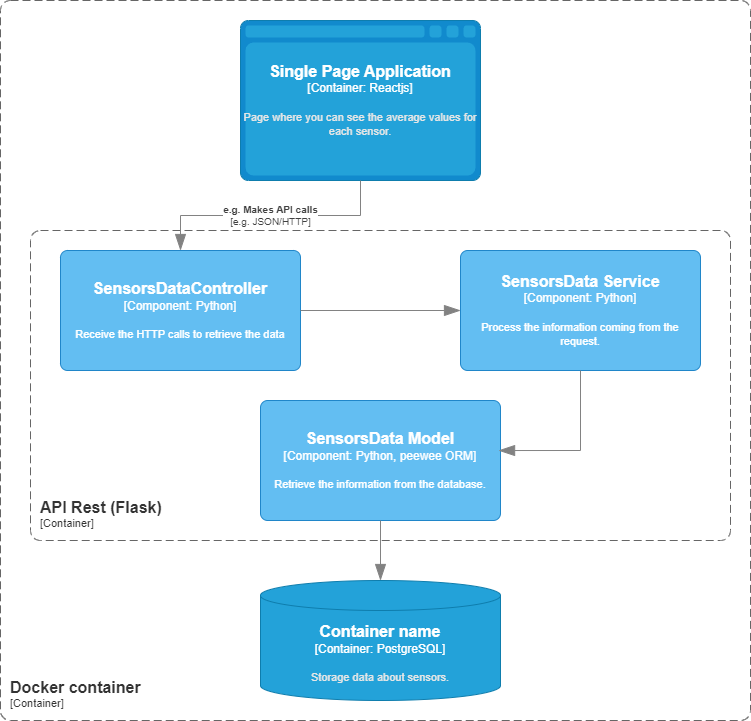
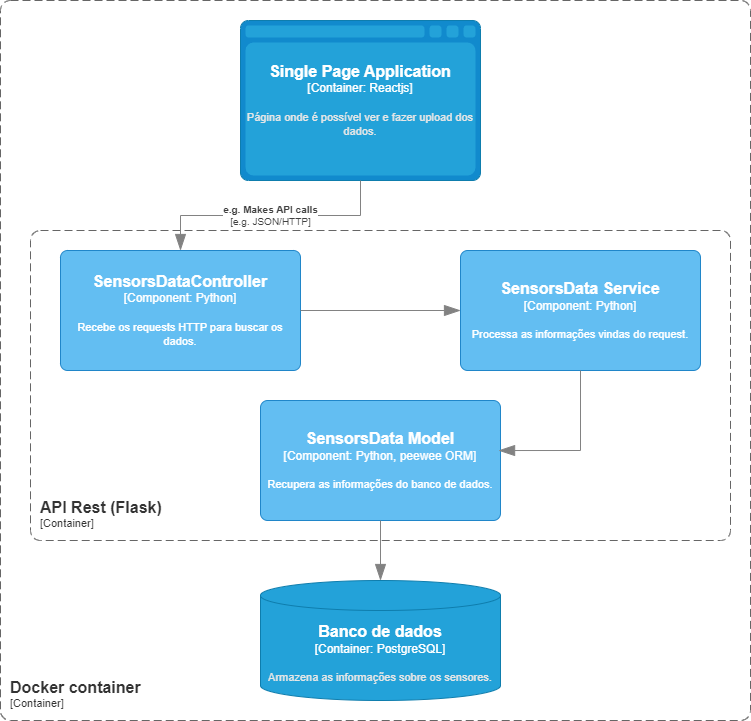
ajustes finais

diff --git a/frontend/src/App.js b/frontend/src/App.js
@@ -1,4 +1,3 @@
-import './App.css';
 import { Chart, registerables } from 'chart.js';
 import { useState } from 'react';
 import { BarChart } from './components/BarChart';
@@ -29,14 +28,9 @@ function App() {
   const [showSucessAlert, setShowSuccessAlert] = useState(false);
   const [showFailAlert, setShowFailAlert] = useState(false);
 
-  const setInfo = (data) => {
-    setShowSuccessAlert(true);
-    setSensorsData(transformData(data));
-  }
-
   const handleGetInfo = async (timeLimitValue, timeLimitText) => {
     setTimeLimit(timeLimitText);
-    getSensorsInfo(timeLimitValue, setInfo, () => setShowFailAlert(true));
+    getSensorsInfo(timeLimitValue, (data) => setSensorsData(transformData(data)), () => setShowFailAlert(true));
   };
 
   const handleAddInfo = async (equipmentId, timestamp, value) => {
@@ -75,11 +69,17 @@ function App() {
         id="home-tabs"
         defaultActiveKey={"get-data"}
         className='mb-3'
+        onSelect={() => {
+          setShowSuccessAlert(false);
+          setShowFailAlert(false);
+        }}
       >
         <Tab eventKey={"get-data"} title={"Média dos valores"}>
-
-          <SelectComponent getInfo={handleGetInfo}/>
-          <BarChart chartData={sensorsData} timeLimit={timeLimit}/>
+          <div>
+            <SelectComponent getInfo={handleGetInfo}/>
+            <BarChart chartData={sensorsData} timeLimit={timeLimit}/>
+          </div>
+          
 
         </Tab>
         <Tab eventKey={"upload-data"} title={"Entre com os dados"}>
@@ -99,7 +99,9 @@ function App() {
         variant='success'
         className="w-25 mt-3 ml-3"
         onClose={() => setShowSuccessAlert(false)}
-        dismissible>
+        dismissible
+        style={{float: 'inline-end'}}
+      >
           Tudo certo!
       </Alert>
 
@@ -108,7 +110,9 @@ function App() {
         variant='danger'
         className="w-25 mt-3 ml-3"
         onClose={() => setShowFailAlert(false)}
-        dismissible>
+        dismissible
+        style={{float: 'inline-end'}}
+      >
           Não foi possível enviar os dados.
       </Alert>
     </Container>

diff --git a/frontend/src/components/BarChart.js b/frontend/src/components/BarChart.js
@@ -2,20 +2,24 @@ import { Bar } from 'react-chartjs-2'
 
 export const BarChart = ({chartData, timeLimit}) => {
     return (
-        <div className="chart-container">
+        <div className="chart-container" 
+        style={{position: 'relative', height: '40vh', width: '80vw'}}>
             <Bar
                 data={chartData}
-                options={{
-                plugins: {
-                    title: {
-                        display: true,
-                        text: "Valor médio de cada equipamento no período de " + timeLimit
-                    },
-                    legend: {
-                        display: false
+                options={
+                    {
+                        plugins: {
+                            title: {
+                                display: true,
+                                text: "Valor médio de cada equipamento no período de " + timeLimit
+                            },
+                            legend: {
+                                display: false
+                            }
+                        },
+                        maintainAspectRatio: false
                     }
                 }
-                }}
             />
     </div>
     );

diff --git a/frontend/src/components/SelectComponent.js b/frontend/src/components/SelectComponent.js
@@ -9,8 +9,8 @@ function SelectComponent({getInfo}) {
     return (
         <Form.Select onChange={handleOnSelect}>
             <option>Selecione um período de tempo</option>
-            <option value="24hr"> 24 horas </option>
-            <option value="48hr"> 48 horas </option>
+            <option value="24h"> 24 horas </option>
+            <option value="48h"> 48 horas </option>
             <option value="1w"> 1 semana </option>
             <option value="1m"> 1 mês </option>
         </Form.Select>

diff --git a/backend/controller/controller.py b/backend/controller/controller.py
@@ -10,10 +10,13 @@ data = api.model('Data', {
 })
 
 upload_parser = api.parser()
-upload_parser.add_argument('file', location='files', type=FileStorage, required=True)
+upload_parser.add_argument('file', location='files', type=FileStorage, required=True, help="Arquivo CSV")
 
 parser = api.parser()
-parser.add_argument('timeLimit', type=str, required=True)
+parser.add_argument('timeLimit', 
+                    type=str, 
+                    required=True, 
+                    choices=('24h', '48h', '1w', '1m'))
 service = SensorsDataService()
 
 @api.route('/')
@@ -21,7 +24,7 @@ service = SensorsDataService()
 class SensorsData(Resource):
     def post(self):
         content = api.payload
-        service.create_data_from_payload(content)
+        service.create_data_from_payload(content), 201
 
 @api.route("/averageValues")
 @api.expect(parser)
@@ -36,5 +39,5 @@ class SensorsDataCSV(Resource):
     def post(self):
         args = upload_parser.parse_args()
         uploaded_file = args['file']
-        service.create_data_from_csv(uploaded_file)
+        service.create_data_from_csv(uploaded_file), 201
         

diff --git a/README.md b/README.md
@@ -1,14 +1,15 @@
 # Sensors
 
-This solution consists of a PostgreSQL database, a Flask backend with three endpoints, and a React frontend page where you can view the average values of each sensor over the last 24 hours, 48 hours, 1 week, or 1 month.
+Esta solução é composta por uma banco de dados PostgreSQL, um backend Flask com três endpoints e uma página feita com React onde é possível ver os valores médios de cada sensor nas últimas 24 horas, 48 horas, 1 semana ou 1 mês e também fazer o upload de dados.
+
 
 ![Solution's architecture](./img/sensors.png)
 
-# How to run the solution
-You will have to fill the variables `POSTGRES_USER` and
-`POSTGRES_PASSWORD` on the .env file.
-You will also need to have [Docker](https://www.docker.com/) installed on your machine. Having that, you can simply run:
 
- `docker-compose up -d --build`
- 
- After that the application should start, and you can access the frontend by going to http://localhost:3000. If you want to access the api's swagger, you can go to http://localhost:5000/.
+# Como rodar a solução
+
+Você terá que preencher as variáveis `POSTGRES_USER` e `POSTGRES_PASSWORD` no arquivo `.env`. Também será necessário ter o [Docker](https://www.docker.com/) instalado em sua máquina. Tendo isso, basta executar:
+
+`docker-compose up -d --build`
+
+Depois disso a aplicação deve iniciar, e você pode acessar o frontend indo para http://localhost:3000. Se quiser acessar o swagger da api, pode ir para http://localhost:5000/.
